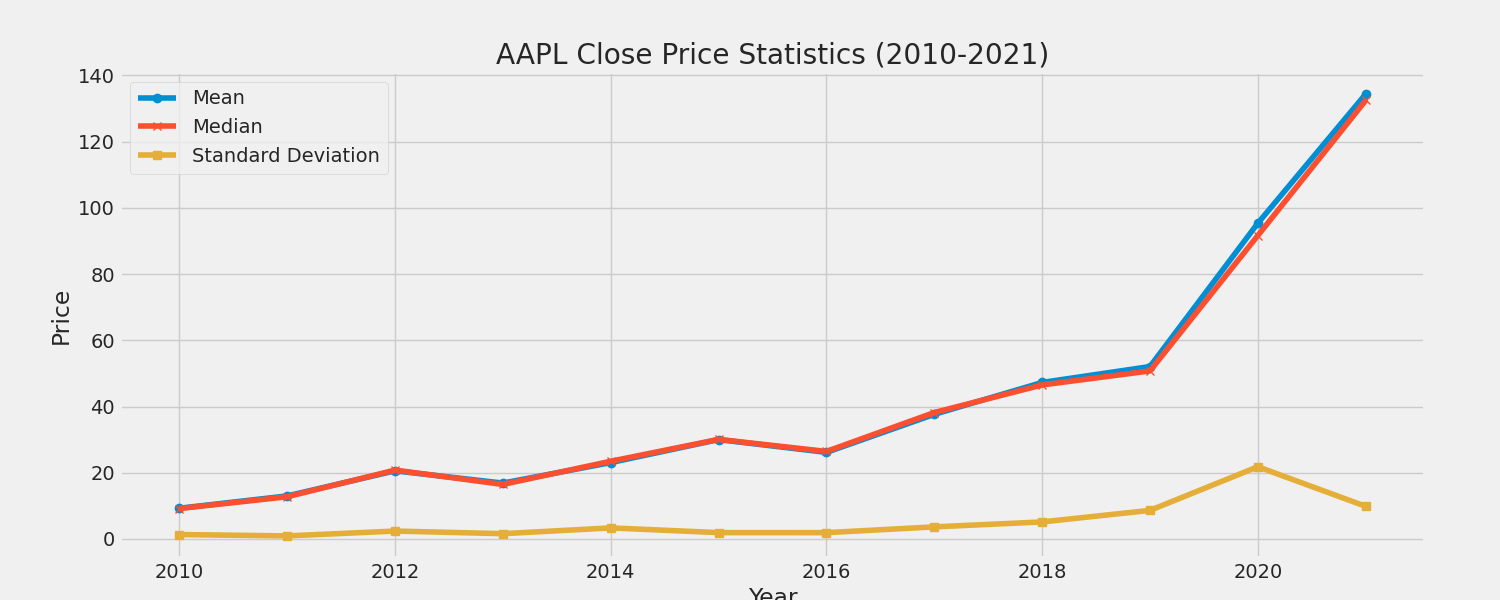
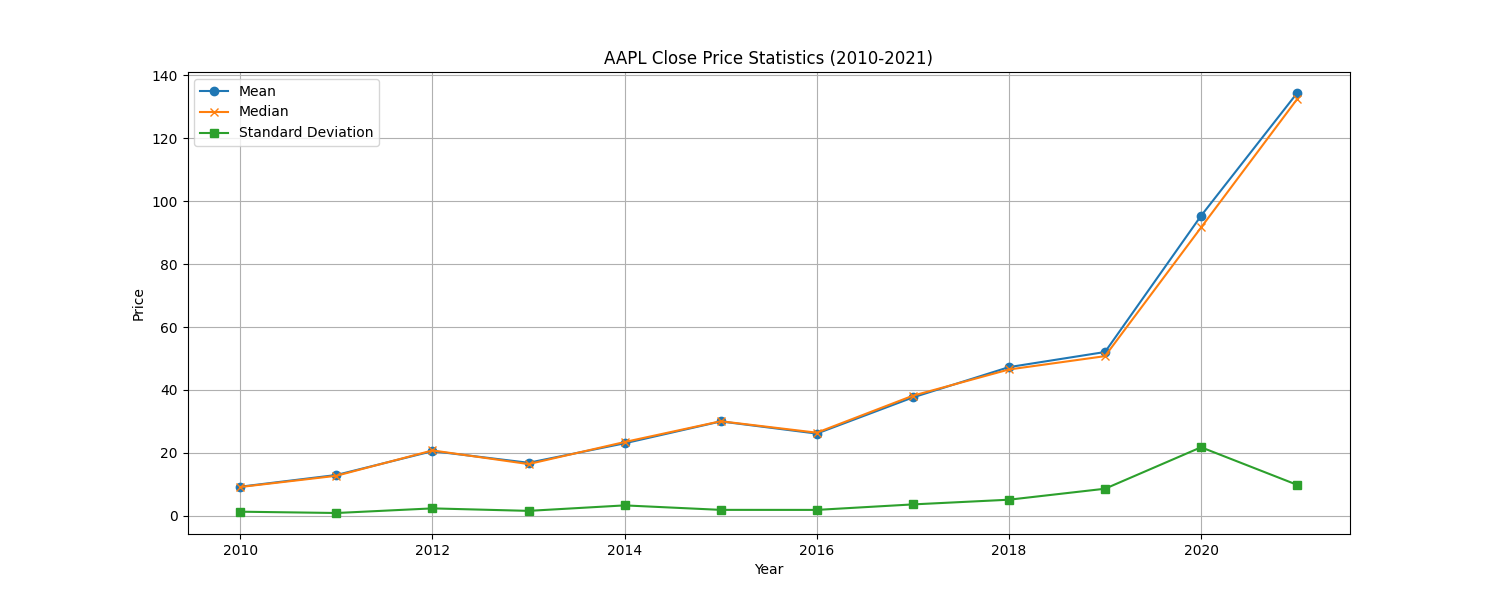
fix main.py bug

diff --git a/main.py b/main.py
@@ -2,17 +2,7 @@
 
 import pandas as pd
 import matplotlib.pyplot as plt
-import seaborn as sns
-import datetime
-import time
-# import requests
-import io
-import numpy as np
 import pandas as pd
-import warnings
-warnings.filterwarnings("ignore")
-sns.set_style('whitegrid')
-plt.style.use("fivethirtyeight")
 
 # Read the data
 stock = pd.read_csv('NASDAQ_100_Data_From_2010.csv',sep='\t')
@@ -37,11 +27,11 @@ print(yearly_stats)
 plt.figure(figsize=(15, 6))
 plt.plot(yearly_stats.index, yearly_stats['mean'], label='Mean', marker='o')
 plt.plot(yearly_stats.index, yearly_stats['median'], label='Median', marker='x')
-plt.plot(yearly_stats.index, yearly_stats['standard deviation'], label='Standard Deviation', marker='s')
+plt.plot(yearly_stats.index, yearly_stats['std'], label='Standard Deviation', marker='s')
+plt.grid(True)
 
 plt.title('AAPL Close Price Statistics (2010-2021)')
 plt.xlabel('Year')
 plt.ylabel('Price')
 plt.legend()
-# plt.show()  # not work in wsl2 ubuntu
 plt.savefig('plot.png')
